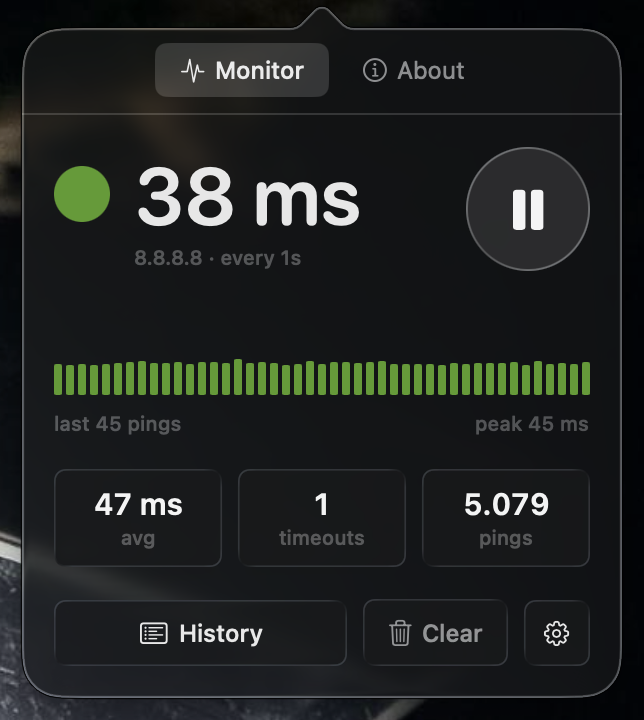
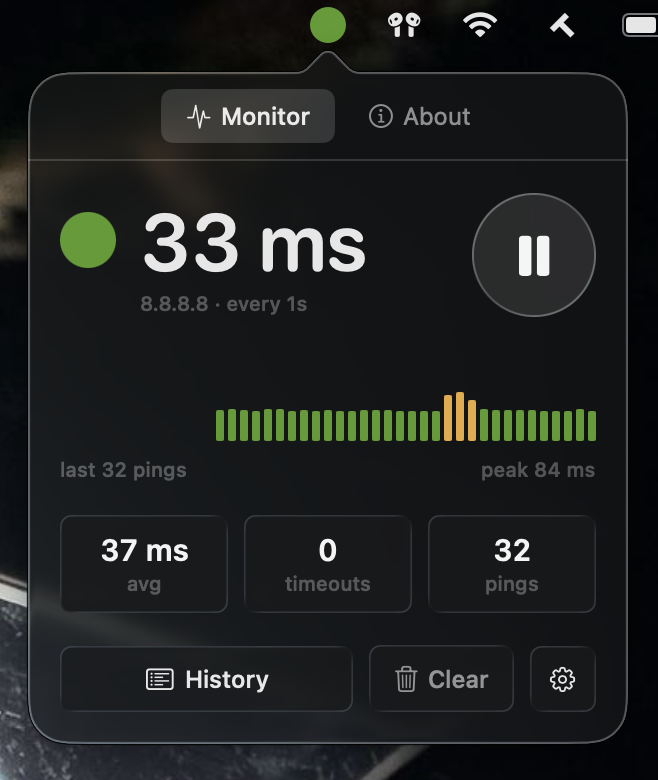
refactor: move the cask to its own tap repo
The cask now lives in kikudjira/homebrew-pingmate, which makes the
install a single command — brew resolves kikudjira/pingmate to that
repo and taps it on the way in — and keeps `brew update` from cloning
the whole app repo.

Cross-repo pushes need a PAT, so the workflow no longer bumps the cask.
It prints the version and sha256 into the run summary instead, and the
tap is updated by hand.

diff --git a/README.md b/README.md
@@ -31,8 +31,7 @@ A native macOS menu bar app, written in Swift and SwiftUI.
 ## Install
 
 ```sh
-brew tap kikudjira/pingmate https://github.com/kikudjira/pingmate
-brew install --cask pingmate
+brew install --cask kikudjira/pingmate/pingmate
 ```
 
 Or grab the DMG from the [latest release](https://github.com/kikudjira/pingmate/releases/latest) and drag PingMate to Applications — then read the next bit, because macOS is about to be dramatic.
